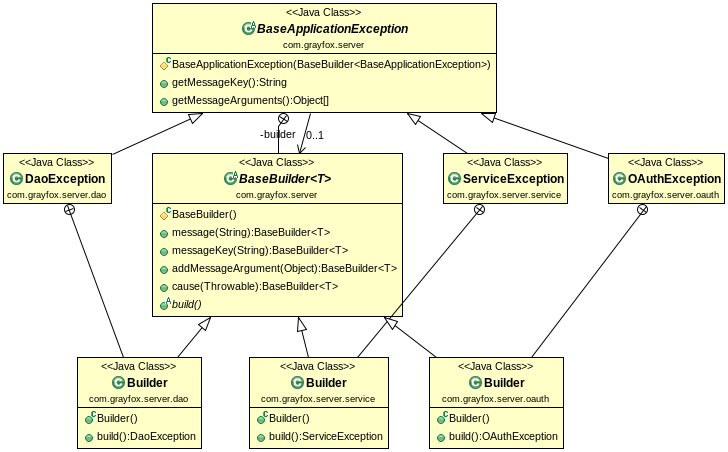
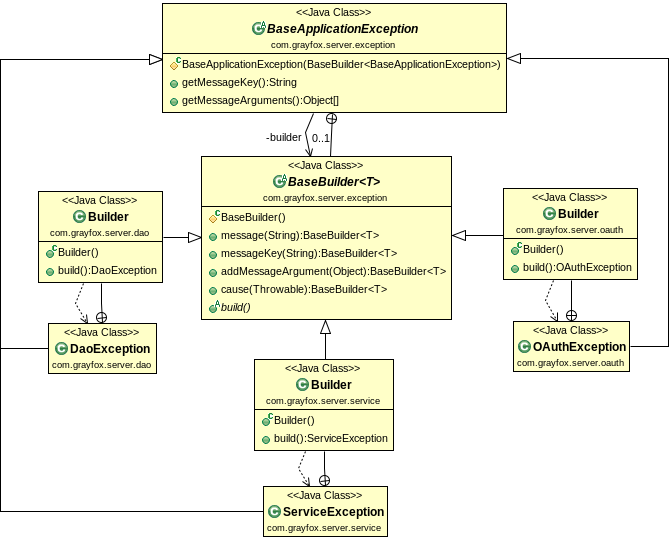
Moved BaseApplicationException to exception package

diff --git a/src/main/java/com/grayfox/server/ws/rest/handler/ApplicationExceptionHandler.java b/src/main/java/com/grayfox/server/ws/rest/handler/ApplicationExceptionHandler.java
@@ -20,7 +20,7 @@ import javax.ws.rs.core.Response;
 import javax.ws.rs.ext.ExceptionMapper;
 import javax.ws.rs.ext.Provider;
 
-import com.grayfox.server.BaseApplicationException;
+import com.grayfox.server.exception.BaseApplicationException;
 import com.grayfox.server.util.Messages;
 import com.grayfox.server.ws.rest.BaseRestComponent;
 import com.grayfox.server.ws.rest.response.ErrorResponse;

diff --git a/src/main/java/com/grayfox/server/exception/BaseApplicationException.java b/src/main/java/com/grayfox/server/exception/BaseApplicationException.java
@@ -13,7 +13,7 @@
  * See the License for the specific language governing permissions and
  * limitations under the License.
  */
-package com.grayfox.server;
+package com.grayfox.server.exception;
 
 import java.util.ArrayList;
 import java.util.List;

diff --git a/src/main/java/com/grayfox/server/service/ServiceException.java b/src/main/java/com/grayfox/server/service/ServiceException.java
@@ -15,7 +15,7 @@
  */
 package com.grayfox.server.service;
 
-import com.grayfox.server.BaseApplicationException;
+import com.grayfox.server.exception.BaseApplicationException;
 
 public class ServiceException extends BaseApplicationException {
 

diff --git a/src/main/java/com/grayfox/server/oauth/OAuthException.java b/src/main/java/com/grayfox/server/oauth/OAuthException.java
@@ -15,7 +15,7 @@
  */
 package com.grayfox.server.oauth;
 
-import com.grayfox.server.BaseApplicationException;
+import com.grayfox.server.exception.BaseApplicationException;
 
 public class OAuthException extends BaseApplicationException {
 

diff --git a/src/main/java/com/grayfox/server/dao/DaoException.java b/src/main/java/com/grayfox/server/dao/DaoException.java
@@ -15,7 +15,7 @@
  */
 package com.grayfox.server.dao;
 
-import com.grayfox.server.BaseApplicationException;
+import com.grayfox.server.exception.BaseApplicationException;
 
 public class DaoException extends BaseApplicationException {
 
